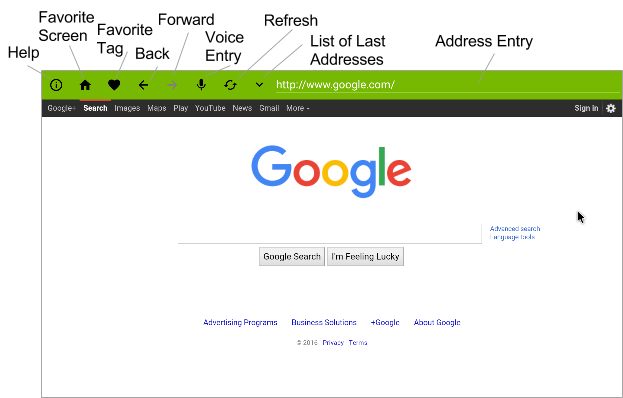
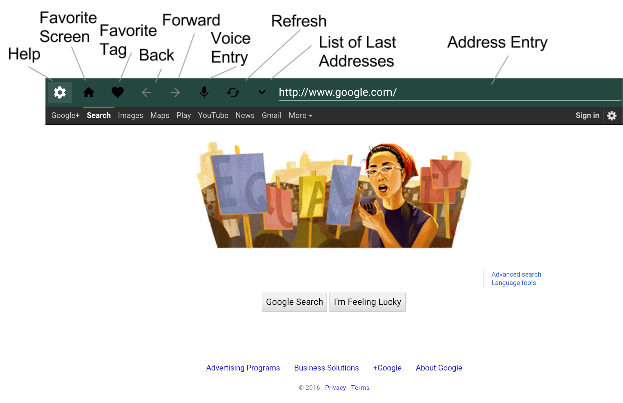
tweak colors, update help

diff --git a/app/src/main/assets/simple_browser_help.html b/app/src/main/assets/simple_browser_help.html
@@ -1,1 +1,1 @@
-<html><head><meta content="text/html; charset=UTF-8" http-equiv="content-type"><style type="text/css">ul.lst-kix_ozii7w7091fq-8{list-style-type:none}ul.lst-kix_ozii7w7091fq-7{list-style-type:none}ul.lst-kix_ozii7w7091fq-6{list-style-type:none}ul.lst-kix_ozii7w7091fq-5{list-style-type:none}ul.lst-kix_ozii7w7091fq-4{list-style-type:none}ul.lst-kix_ozii7w7091fq-3{list-style-type:none}.lst-kix_ozii7w7091fq-1>li:before{content:"-  "}ul.lst-kix_ozii7w7091fq-2{list-style-type:none}ul.lst-kix_ozii7w7091fq-1{list-style-type:none}ul.lst-kix_ozii7w7091fq-0{list-style-type:none}.lst-kix_ozii7w7091fq-0>li:before{content:"-  "}.lst-kix_ozii7w7091fq-8>li:before{content:"-  "}.lst-kix_ozii7w7091fq-7>li:before{content:"-  "}.lst-kix_ozii7w7091fq-4>li:before{content:"-  "}.lst-kix_ozii7w7091fq-6>li:before{content:"-  "}.lst-kix_ozii7w7091fq-5>li:before{content:"-  "}.lst-kix_ozii7w7091fq-2>li:before{content:"-  "}.lst-kix_ozii7w7091fq-3>li:before{content:"-  "}ol{margin:0;padding:0}table td,table th{padding:0}.c1{margin-left:36pt;orphans:2;widows:2;padding-left:0pt}.c6{background-color:#ffffff;font-size:9pt;color:#808080}.c0{orphans:2;widows:2;height:11pt}.c7{background-color:#ffffff;max-width:468pt;padding:72pt 72pt 72pt 72pt}.c3{orphans:2;widows:2}.c8{color:inherit;text-decoration:inherit}.c2{font-weight:bold;text-decoration:underline}.c10{color:#1155cc;text-decoration:underline}.c11{padding:0;margin:0}.c5{font-weight:bold}.c4{font-style:italic}.c9{page-break-after:avoid}.title{padding-top:0pt;color:#000000;font-size:26pt;padding-bottom:3pt;font-family:"Arial";line-height:1.15;page-break-after:avoid;orphans:2;widows:2;text-align:left}.subtitle{padding-top:0pt;color:#666666;font-size:15pt;padding-bottom:16pt;font-family:"Arial";line-height:1.15;page-break-after:avoid;orphans:2;widows:2;text-align:left}li{color:#000000;font-size:11pt;font-family:"Arial"}p{margin:0;color:#000000;font-size:11pt;font-family:"Arial"}h1{padding-top:20pt;color:#000000;font-size:20pt;padding-bottom:6pt;font-family:"Arial";line-height:1.15;page-break-after:avoid;orphans:2;widows:2;text-align:left}h2{padding-top:18pt;color:#000000;font-size:16pt;padding-bottom:6pt;font-family:"Arial";line-height:1.15;page-break-after:avoid;orphans:2;widows:2;text-align:left}h3{padding-top:16pt;color:#434343;font-size:14pt;padding-bottom:4pt;font-family:"Arial";line-height:1.15;page-break-after:avoid;orphans:2;widows:2;text-align:left}h4{padding-top:14pt;color:#666666;font-size:12pt;padding-bottom:4pt;font-family:"Arial";line-height:1.15;page-break-after:avoid;orphans:2;widows:2;text-align:left}h5{padding-top:12pt;color:#666666;font-size:11pt;padding-bottom:4pt;font-family:"Arial";line-height:1.15;page-break-after:avoid;orphans:2;widows:2;text-align:left}h6{padding-top:12pt;color:#666666;font-size:11pt;padding-bottom:4pt;font-family:"Arial";line-height:1.15;page-break-after:avoid;font-style:italic;orphans:2;widows:2;text-align:left}</style></head><body class="c7"><p class="c3 c9 title" id="h.bfe4m5c05ebi"><span class="c5">Simple Browser for Android TV Help</span></p><p class="c0"><span></span></p><p class="c3"><span>This is a very simple browser example which allows the loading of web pages under Android TV. It has a few optimizations specifically for leanback mode including voice entry of web addresses as well as a favorites starting page for easy </span><span>selection </span><span>of your commonly accessed web pages.</span></p><p class="c0"><span></span></p><p class="c3"><span class="c5">Controller Usage:</span></p><p class="c3"><span>In general, all the standard controller buttons work as you expect. Home and back will take you out of the application. Voice search gets overriden to allow entry of a URL address. Some functions will only work when on main web page.</span></p><p class="c0"><span class="c5"></span></p><p class="c3"><span style="overflow: hidden; display: inline-block; margin: 0.00px 0.00px; border: 0.00px solid #000000; transform: rotate(0.00rad) translateZ(0px); -webkit-transform: rotate(0.00rad) translateZ(0px); width: 624.00px; height: 366.82px;"><img alt="" src="images/image00.png" style="width: 624.00px; height: 366.82px; margin-left: 0.00px; margin-top: 0.00px; transform: rotate(0.00rad) translateZ(0px); -webkit-transform: rotate(0.00rad) translateZ(0px);" title=""></span></p><p class="c0"><span></span></p><p class="c3"><span class="c5">Main Page:</span></p><p class="c3"><span>When you launch the application for the first time, you will be taken to the main page. There is a search bar at top with controls and address entry with a web page below. </span></p><p class="c0"><span></span></p><p class="c3"><span class="c4">Help</span><span>&nbsp;- pulls up this screen</span></p><p class="c3"><span class="c4">Favorite Screen</span><span>&nbsp;- toggles between this screen and your favorites screen (must have at least one favorite set)</span></p><p class="c3"><span class="c4">Favorite Tag</span><span>&nbsp;- toggles the current web site to be a favorite or not - if marked as favorite (heart is solid), site will show up on the favorites screen (read about favorites screen below)</span></p><p class="c3"><span class="c4">Back/Forward </span><span>- navigate through your web history</span></p><p class="c3"><span class="c4">Voice Entry</span><span>&nbsp;- toggles voice entry for web address entry (voice entry tool will pop up and will transcribe your voice to address bar)</span></p><p class="c3"><span class="c4">Refresh</span><span>&nbsp;- reloads current page</span></p><p class="c3"><span class="c4">List of Last Address</span><span>&nbsp;- pulls up a dropdown list containing a selectable list of your last visited web pages</span></p><p class="c3"><span class="c4">Address Entry</span><span>&nbsp;- enter your web page address here. </span></p><p class="c3"><span class="c5">Important</span><span>&nbsp;- the logic used for processing text entry into the address bar is as follows:</span></p><ul class="c11 lst-kix_ozii7w7091fq-0 start"><li class="c1"><span>If text begins with http:// or https://, app attempts to load that web site regardless</span></li><li class="c1"><span>If text is &ldquo;info&rdquo;, it will pull up this help screen</span></li><li class="c1"><span>If text is determined to be a valid web url via pattern matching, app will attempt to load it</span></li><li class="c1"><span>If text is not a valid url, app will do a google search on the text entered</span></li></ul><p class="c0"><span></span></p><p class="c3"><span style="overflow: hidden; display: inline-block; margin: 0.00px 0.00px; border: 0.00px solid #000000; transform: rotate(0.00rad) translateZ(0px); -webkit-transform: rotate(0.00rad) translateZ(0px); width: 624.00px; height: 398.67px;"><img alt="" src="images/image02.png" style="width: 624.00px; height: 398.67px; margin-left: 0.00px; margin-top: 0.00px; transform: rotate(0.00rad) translateZ(0px); -webkit-transform: rotate(0.00rad) translateZ(0px);" title=""></span></p><p class="c0"><span></span></p><p class="c0"><span class="c5"></span></p><p class="c3"><span class="c5">Favorites Page:</span></p><p class="c3"><span>The favorites page offers a very simple scrollable view of web sites that you have marked as favorites. The app will automatically launch to this page if one or more favorites is set. You can toggle between this view and the main page by clicking the home button in the search bar.</span></p><p class="c0"><span></span></p><p class="c3"><span>The web page thumbnails are generated at the time that you mark them as a favorite (they are not updated live). To update the thumbnail view, click on the web site and then uncheck and recheck the favorite tag icon in the search bar.</span></p><p class="c0"><span></span></p><p class="c3"><span>To remove a favorite, simple launch that web page and uncheck the favorite tag icon.</span></p><p class="c3"><span style="overflow: hidden; display: inline-block; margin: 0.00px 0.00px; border: 0.00px solid #000000; transform: rotate(0.00rad) translateZ(0px); -webkit-transform: rotate(0.00rad) translateZ(0px); width: 624.00px; height: 380.00px;"><img alt="" src="images/image01.png" style="width: 624.00px; height: 380.00px; margin-left: 0.00px; margin-top: 0.00px; transform: rotate(0.00rad) translateZ(0px); -webkit-transform: rotate(0.00rad) translateZ(0px);" title=""></span></p><p class="c0"><span class="c5"></span></p><p class="c3"><span class="c5">About</span></p><p class="c3"><span>This application has only been tested on a NVIDIA Shield TV. It should work on other Android TV platforms although you will not get right-stick mouse functionality. </span></p><p class="c0"><span></span></p><p class="c3"><span>This application uses the android webview class at its core. Javascript and cookies have been enabled. However there has not been any security review, tabs are not supported, nor has any caching been enabled. And the android webview class does </span><span class="c2">not</span><span>&nbsp;support plugins which mean certain websites that require plugin support will not work (for example, hangouts).</span></p><p class="c0"><span></span></p><p class="c3"><span>Sources for this project are available on github at </span><span class="c10"><a class="c8" href="https://www.google.com/url?q=https://github.com/rclark1212/SimpleATVBrowser&amp;sa=D&amp;ust=1463017947365000&amp;usg=AFQjCNFkMfxBArTfLSVp_82OZt9W2YGEOQ">https://github.com/rclark1212/SimpleATVBrowser</a></span><span>.</span></p><p class="c0"><span></span></p><p class="c3"><span class="c5">Disclaimer/License</span></p><p class="c3"><span>This program is free software. It comes without any warranty, implied or explicit. It was a weekend project and as I like doing other stuff on my weekends, you should not expect bug fixes, updates or ongoing maintenance. Terms of the license are in the sources on github but to reprint here:</span></p><p class="c0"><span></span></p><p class="c3"><span class="c6 c4">Licensed under the Apache License, Version 2.0 (the &quot;License&quot;); you may not use this file except</span></p><p class="c3"><span class="c4 c6">in compliance with the License. You may obtain a copy of the License at</span></p><p class="c0"><span class="c6 c4"></span></p><p class="c3"><span class="c6 c4">http://www.apache.org/licenses/LICENSE-2.0</span></p><p class="c0"><span class="c6 c4"></span></p><p class="c3"><span class="c6 c4">Unless required by applicable law or agreed to in writing, software distributed under the License</span></p><p class="c3"><span class="c6 c4">is distributed on an &quot;AS IS&quot; BASIS, WITHOUT WARRANTIES OR CONDITIONS OF ANY KIND, either express</span></p><p class="c3"><span class="c6 c4">or implied. See the License for the specific language governing permissions and limitations under</span></p><p class="c3"><span class="c6 c4">the License.</span></p><p class="c0"><span></span></p><p class="c3"><span>And if you unexpectedly got to the end of this help file, I am guessing you are using the d-pad to scroll. Remember, d-pad moves focus so you jumped to the html address above. Use the left stick to scroll/pan instead.</span></p></body></html>
+<html><head><meta content="text/html; charset=UTF-8" http-equiv="content-type"><style type="text/css">ul.lst-kix_ozii7w7091fq-8{list-style-type:none}ul.lst-kix_ozii7w7091fq-7{list-style-type:none}ul.lst-kix_ozii7w7091fq-6{list-style-type:none}ul.lst-kix_ozii7w7091fq-5{list-style-type:none}ul.lst-kix_ozii7w7091fq-4{list-style-type:none}ul.lst-kix_ozii7w7091fq-3{list-style-type:none}.lst-kix_ozii7w7091fq-1>li:before{content:"-  "}ul.lst-kix_ozii7w7091fq-2{list-style-type:none}ul.lst-kix_ozii7w7091fq-1{list-style-type:none}ul.lst-kix_ozii7w7091fq-0{list-style-type:none}.lst-kix_ozii7w7091fq-0>li:before{content:"-  "}.lst-kix_ozii7w7091fq-8>li:before{content:"-  "}.lst-kix_ozii7w7091fq-7>li:before{content:"-  "}.lst-kix_ozii7w7091fq-4>li:before{content:"-  "}.lst-kix_ozii7w7091fq-6>li:before{content:"-  "}.lst-kix_ozii7w7091fq-5>li:before{content:"-  "}.lst-kix_ozii7w7091fq-2>li:before{content:"-  "}.lst-kix_ozii7w7091fq-3>li:before{content:"-  "}ol{margin:0;padding:0}table td,table th{padding:0}.c10{background-color:#ffffff;max-width:468pt;padding:72pt 72pt 72pt 72pt}.c7{background-color:#ffffff;font-size:9pt;color:#808080}.c0{orphans:2;widows:2}.c3{margin-left:36pt;padding-left:0pt}.c4{color:inherit;text-decoration:inherit}.c11{padding:0;margin:0}.c2{height:11pt}.c1{font-style:italic}.c5{page-break-after:avoid}.c6{font-weight:bold}.c8{text-decoration:underline}.c9{color:#1155cc}.title{padding-top:0pt;color:#000000;font-size:26pt;padding-bottom:3pt;font-family:"Arial";line-height:1.15;page-break-after:avoid;orphans:2;widows:2;text-align:left}.subtitle{padding-top:0pt;color:#666666;font-size:15pt;padding-bottom:16pt;font-family:"Arial";line-height:1.15;page-break-after:avoid;orphans:2;widows:2;text-align:left}li{color:#000000;font-size:11pt;font-family:"Arial"}p{margin:0;color:#000000;font-size:11pt;font-family:"Arial"}h1{padding-top:20pt;color:#000000;font-size:20pt;padding-bottom:6pt;font-family:"Arial";line-height:1.15;page-break-after:avoid;orphans:2;widows:2;text-align:left}h2{padding-top:18pt;color:#000000;font-size:16pt;padding-bottom:6pt;font-family:"Arial";line-height:1.15;page-break-after:avoid;orphans:2;widows:2;text-align:left}h3{padding-top:16pt;color:#434343;font-size:14pt;padding-bottom:4pt;font-family:"Arial";line-height:1.15;page-break-after:avoid;orphans:2;widows:2;text-align:left}h4{padding-top:14pt;color:#666666;font-size:12pt;padding-bottom:4pt;font-family:"Arial";line-height:1.15;page-break-after:avoid;orphans:2;widows:2;text-align:left}h5{padding-top:12pt;color:#666666;font-size:11pt;padding-bottom:4pt;font-family:"Arial";line-height:1.15;page-break-after:avoid;orphans:2;widows:2;text-align:left}h6{padding-top:12pt;color:#666666;font-size:11pt;padding-bottom:4pt;font-family:"Arial";line-height:1.15;page-break-after:avoid;font-style:italic;orphans:2;widows:2;text-align:left}</style></head><body class="c10"><p class="c0 c5 title" id="h.bfe4m5c05ebi"><span class="c6">Simple Browser for Android TV Help</span></p><p class="c0 c2"><span></span></p><p class="c0"><span>This is a very simple browser example which allows the loading of web pages under Android TV. It has a few optimizations specifically for leanback mode including voice entry of web addresses as well as a favorites starting page for easy </span><span>selection </span><span>of your commonly accessed web pages.</span></p><p class="c0 c2"><span></span></p><p class="c0"><span class="c6">Controller Usage:</span></p><p class="c0"><span>In general, all the standard controller buttons work as you expect. Home and back will take you out of the application. Voice search gets overriden to allow entry of a URL address. Some functions will only work when on main web page.</span></p><p class="c0 c2"><span class="c6"></span></p><p class="c0"><span style="overflow: hidden; display: inline-block; margin: 0.00px 0.00px; border: 0.00px solid #000000; transform: rotate(0.00rad) translateZ(0px); -webkit-transform: rotate(0.00rad) translateZ(0px); width: 624.00px; height: 366.82px;"><img alt="" src="images/image00.png" style="width: 624.00px; height: 366.82px; margin-left: 0.00px; margin-top: 0.00px; transform: rotate(0.00rad) translateZ(0px); -webkit-transform: rotate(0.00rad) translateZ(0px);" title=""></span></p><p class="c0 c2"><span></span></p><p class="c0"><span class="c6">Main Page:</span></p><p class="c0"><span>When you launch the application for the first time, you will be taken to the main page. There is a search bar at top with controls and address entry with a web page below. </span></p><p class="c0 c2"><span></span></p><p class="c0"><span class="c1">Help</span><span>&nbsp;- pulls up this screen</span></p><p class="c0"><span class="c1">Favorite Screen</span><span>&nbsp;- toggles between this screen and your favorites screen (must have at least one favorite set)</span></p><p class="c0"><span class="c1">Favorite Tag</span><span>&nbsp;- toggles the current web site to be a favorite or not - if marked as favorite (heart is solid), site will show up on the favorites screen (read about favorites screen below)</span></p><p class="c0"><span class="c1">Back/Forward </span><span>- navigate through your web history</span></p><p class="c0"><span class="c1">Voice Entry</span><span>&nbsp;- toggles voice entry for web address entry (voice entry tool will pop up and will transcribe your voice to address bar)</span></p><p class="c0"><span class="c1">Refresh</span><span>&nbsp;- reloads current page</span></p><p class="c0"><span class="c1">List of Last Address</span><span>&nbsp;- pulls up a dropdown list containing a selectable list of your last visited web pages</span></p><p class="c0"><span class="c1">Address Entry</span><span>&nbsp;- enter your web page address here. </span></p><p class="c0"><span class="c6">Important</span><span>&nbsp;- the logic used for processing text entry into the address bar is as follows:</span></p><ul class="c11 lst-kix_ozii7w7091fq-0 start"><li class="c0 c3"><span>If text begins with http:// or https://, app attempts to load that web site regardless</span></li><li class="c0 c3"><span>If text is &ldquo;info&rdquo;, it will pull up this help screen</span></li><li class="c0 c3"><span>If text is determined to be a valid web url via pattern matching, app will attempt to load it</span></li><li class="c0 c3"><span>If text is not a valid url, app will do a google search on the text entered</span></li></ul><p class="c0 c2"><span></span></p><p class="c0"><span style="overflow: hidden; display: inline-block; margin: 0.00px 0.00px; border: 0.00px solid #000000; transform: rotate(0.00rad) translateZ(0px); -webkit-transform: rotate(0.00rad) translateZ(0px); width: 624.00px; height: 403.71px;"><img alt="" src="images/image02.png" style="width: 624.00px; height: 403.71px; margin-left: 0.00px; margin-top: 0.00px; transform: rotate(0.00rad) translateZ(0px); -webkit-transform: rotate(0.00rad) translateZ(0px);" title=""></span></p><p class="c0 c2"><span></span></p><p class="c0 c2"><span class="c6"></span></p><p class="c0"><span class="c6">Favorites Page:</span></p><p class="c0"><span>The favorites page offers a very simple scrollable view of web sites that you have marked as favorites. The app will automatically launch to this page if one or more favorites is set. You can toggle between this view and the main page by clicking the home button in the search bar.</span></p><p class="c0 c2"><span></span></p><p class="c0"><span>The web page thumbnails are generated at the time that you mark them as a favorite (they are not updated live). To update the thumbnail view, click on the web site and then uncheck and recheck the favorite tag icon in the search bar.</span></p><p class="c0 c2"><span></span></p><p class="c0"><span>To remove a favorite, simple launch that web page and uncheck the favorite tag icon.</span></p><p class="c0"><span style="overflow: hidden; display: inline-block; margin: 0.00px 0.00px; border: 0.00px solid #000000; transform: rotate(0.00rad) translateZ(0px); -webkit-transform: rotate(0.00rad) translateZ(0px); width: 624.00px; height: 363.72px;"><img alt="" src="images/image01.png" style="width: 624.00px; height: 363.72px; margin-left: 0.00px; margin-top: 0.00px; transform: rotate(0.00rad) translateZ(0px); -webkit-transform: rotate(0.00rad) translateZ(0px);" title=""></span></p><p class="c0 c2"><span class="c6"></span></p><p class="c0"><span class="c6">About</span></p><p class="c0"><span>This application has only been tested on a NVIDIA Shield TV. It should work on other Android TV platforms although you will not get right-stick mouse functionality. </span></p><p class="c0 c2"><span></span></p><p class="c0"><span>This application uses the android webview class at its core. Javascript and cookies have been enabled. However there has not been any security review, tabs are not supported, nor has any caching been enabled. And the android webview class does </span><span class="c6 c8">not</span><span>&nbsp;support plugins which mean certain websites that require plugin support will not work (for example, hangouts).</span></p><p class="c0 c2"><span></span></p><p class="c0"><span>Sources for this project are available on github at </span><span class="c8 c9"><a class="c4" href="https://www.google.com/url?q=https://github.com/rclark1212/SimpleATVBrowser&amp;sa=D&amp;ust=1463690447152000&amp;usg=AFQjCNG-IJCHWxIubys4UjMr9ajsaQDkRQ">https://github.com/rclark1212/SimpleATVBrowser</a></span><span>.</span></p><p class="c0 c2"><span></span></p><p class="c0"><span class="c6">Disclaimer/License</span></p><p class="c0"><span>This program is free software. It comes without any warranty, implied or explicit. It was a weekend project and as I like doing other stuff on my weekends, you should not expect bug fixes, updates or ongoing maintenance. Terms of the license are in the sources on github but to reprint here:</span></p><p class="c0 c2"><span></span></p><p class="c0"><span class="c7 c1">Licensed under the Apache License, Version 2.0 (the &quot;License&quot;); you may not use this file except</span></p><p class="c0"><span class="c7 c1">in compliance with the License. You may obtain a copy of the License at</span></p><p class="c0 c2"><span class="c1 c7"></span></p><p class="c0"><span class="c7 c1">http://www.apache.org/licenses/LICENSE-2.0</span></p><p class="c0 c2"><span class="c7 c1"></span></p><p class="c0"><span class="c7 c1">Unless required by applicable law or agreed to in writing, software distributed under the License</span></p><p class="c0"><span class="c7 c1">is distributed on an &quot;AS IS&quot; BASIS, WITHOUT WARRANTIES OR CONDITIONS OF ANY KIND, either express</span></p><p class="c0"><span class="c7 c1">or implied. See the License for the specific language governing permissions and limitations under</span></p><p class="c0"><span class="c7 c1">the License.</span></p><p class="c0 c2"><span></span></p><p class="c0"><span>And if you unexpectedly got to the end of this help file, I am guessing you are using the d-pad to scroll. Remember, d-pad moves focus so you jumped to the html address above. Use the left stick to scroll/pan instead.</span></p></body></html>

diff --git a/app/src/main/java/com/example/rclark/simpleatvbrowser/ObjectDetail.java b/app/src/main/java/com/example/rclark/simpleatvbrowser/ObjectDetail.java
@@ -17,7 +17,7 @@ package com.example.rclark.simpleatvbrowser;
 import android.graphics.drawable.Drawable;
 
 /**
- * Created by rclar on 4/4/2016.
+ * Created by rclark on 4/4/2016.
  * Yes, really am using this as a structure... Consider me shamed for inefficiency...
  */
 public class ObjectDetail {
